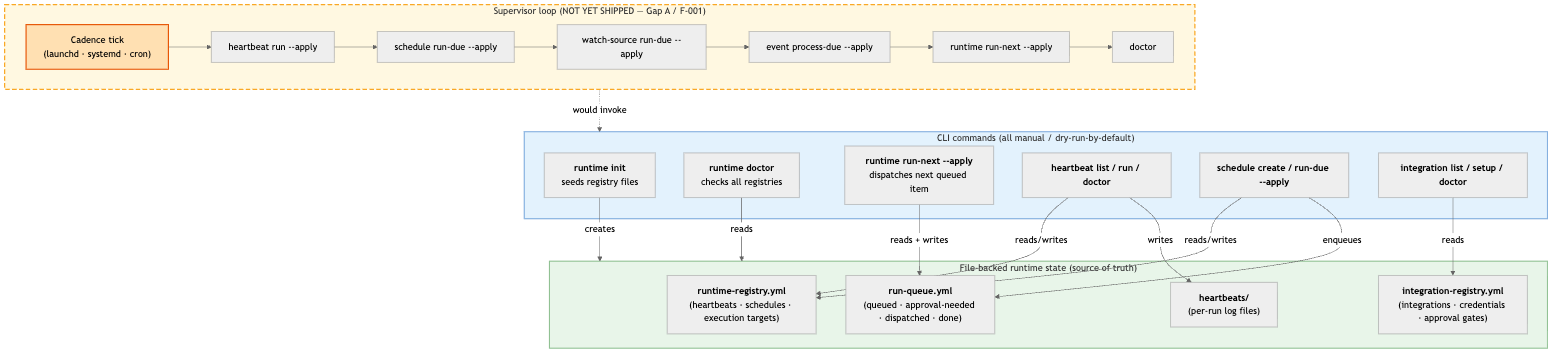
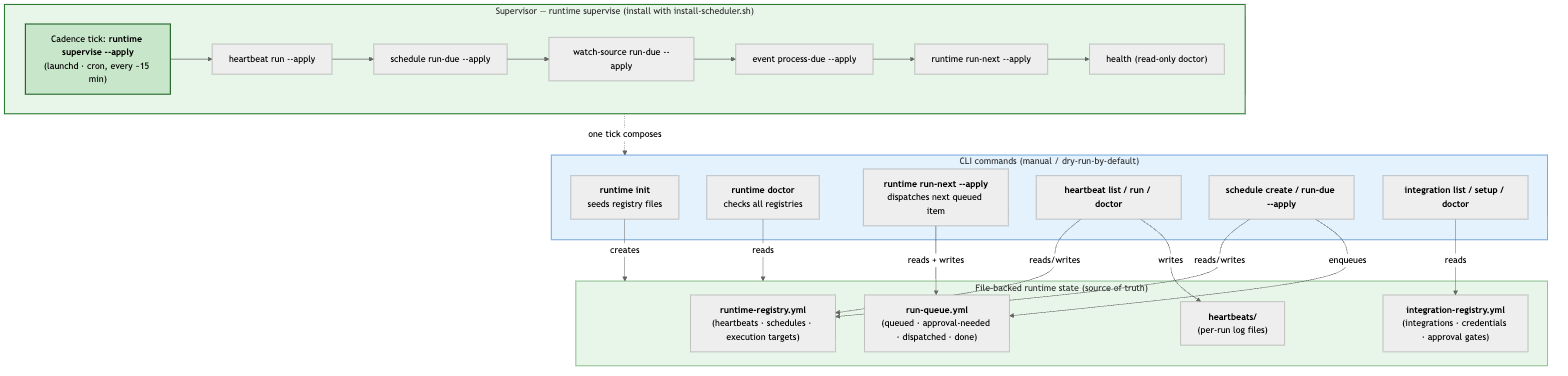
docs: reflect the shipped supervisor and refresh validated baselines
Reframe 09-runtime-and-always-on (supervisor now exists, with setup steps), re-render the runtime diagram (supervisor shown shipped), mark backlog F-001/F-002 done, downgrade gap-register A to resolved, add 'runtime supervise' to the command reference, and refresh baselines to 47/48 commands OK + 65/65 tests across the atlas and handbook.

Changed region(s): [[0.0, 0.0615, 1.0, 0.9218], [0.0, 0.0, 0.8125, 0.0615], [0.3438, 0.9525, 0.375, 0.9832]]

diff --git a/docs/09-runtime-and-always-on.md b/docs/09-runtime-and-always-on.md
@@ -1,14 +1,14 @@
 # 09 · Runtime & Always-On
 
-> **Purpose:** understand what the Agentic OS runtime surface *is* (file-backed
-> registries, heartbeats, schedules, integrations, a run queue) and what it
-> **is not yet** (an autonomous daemon that ticks without you). This page is the
-> honest account of both halves.
+> **Purpose:** understand the Agentic OS runtime surface (file-backed registries,
+> heartbeats, schedules, integrations, a run queue) and how to make it **tick on a
+> cadence**. There is no bespoke daemon — an external scheduler calls one
+> auditable tick command (`runtime supervise`), installed by a small script.
 >
-> **You'll use:** `agentic-os runtime {init,doctor,run-next}`,
+> **You'll use:** `agentic-os runtime {init,doctor,run-next,supervise}`,
 > `agentic-os heartbeat {list,run,doctor}`,
 > `agentic-os schedule {create,run-due}`,
-> `agentic-os integration {list,setup,doctor}`.
+> `agentic-os integration {list,setup,doctor}`, `installers/install-scheduler.sh`.
 >
 > **Prereqs:** an installed OS root
 > ([01 · Install & Quickstart](01-install-and-quickstart.md)); runtime registries
@@ -33,25 +33,28 @@ directly — there is no in-memory state, no database, no network call at the
 registry layer. This is the MWP philosophy applied to operations: the filesystem
 *is* the runtime state.
 
-### Critical honesty: "always-on" is currently on-demand
+### How it ticks: on-demand by default, schedulable via the supervisor
 
-**The OS has a full runtime surface but no runtime process.** Every command below
-is invoked manually, or previewed via dry-run. Nothing ticks by itself.
+By itself, every command below is **invoked manually or previewed via dry-run** —
+the registry layer has no daemon. What turns the surface into an always-on engine
+is the **supervisor** plus an **external scheduler**:
 
-- `heartbeat run` only fires when you type it.
-- `schedule run-due` only enqueues due items when you type it.
-- `watch-source poll` only polls when you type it.
-- `event process-due` only processes chained events when you type it.
-- `runtime run-next` only dispatches the next queue item when you type it (with
-  `--apply`).
+- **`agentic-os runtime supervise`** runs *one tick* across the whole surface, in
+  order — heartbeats → schedules → watch-sources → events → run-queue — then a
+  read-only health check. Dry-run by default; `--apply` commits. Steps are
+  **isolated**: one failing subsystem never aborts the tick.
+- **`installers/install-scheduler.sh`** installs a **launchd agent** (macOS) or a
+  **crontab line** (other platforms) that calls `runtime supervise --apply` on a
+  cadence (default 15 min). It is dry-run by default and **not auto-installed** —
+  enabling a background agent is an explicit, per-host choice.
 
-This is Gap A in the [gap register](../.agentic-atlas/gap-register.md), rated S1
-(highest priority). The recommended fix — a thin supervisor (launchd plist on
-macOS, systemd unit on Linux, or a cron entry) that runs the loop above on a
-cadence — is backlogged as **F-001**. Until F-001 ships, treat the runtime surface
-as a set of well-designed levers, not an engine that runs itself.
+So "always-on" is opt-in per machine: install the scheduler and the OS ticks
+itself; skip it and the same commands stay on-demand levers. This closes the old
+Gap A (F-001 + F-002) in the
+[gap register](../.agentic-atlas/gap-register.md) — see
+[the supervisor section](#the-supervisor-what-makes-it-always-on) below for setup.
 
-![Runtime registries (runtime-registry.yml, integration-registry.yml, run-queue.yml, heartbeat logs) fed by CLI commands; a dashed supervisor loop showing what F-001 would add (heartbeat run, schedule run-due, watch-source poll, event process-due, runtime run-next, doctor) is marked NOT YET SHIPPED](diagrams/runtime-registries.png)
+![Runtime registries (runtime-registry.yml, integration-registry.yml, run-queue.yml, heartbeat logs) fed by manual CLI commands; the shipped supervisor loop — runtime supervise, installed via install-scheduler.sh — composes one tick of heartbeat run, schedule run-due, watch-source run-due, event process-due, runtime run-next, and a read-only health check on a cadence](diagrams/runtime-registries.png)
 
 ---
 
@@ -409,32 +412,48 @@ findings:
 
 ---
 
-## The F-001 supervisor loop (what would make this "always-on")
+## The supervisor: what makes it always-on
 
-When F-001 ships, a thin supervisor — a launchd plist on macOS, a systemd unit
-on Linux, or a crontab entry — would run the following sequence on each cadence
-tick (suggested: every 5–15 minutes):
+A single command runs the whole loop, and a small installer schedules it.
+
+### One tick — `runtime supervise`
 
 ```bash
-# F-001 supervisor sequence (not yet implemented)
-agentic-os heartbeat run <each-enabled-heartbeat-id> --root ~/agentic_os --apply
-agentic-os schedule run-due --root ~/agentic_os --apply
-agentic-os watch-source run-due --root ~/agentic_os --apply
-agentic-os event process-due --root ~/agentic_os --apply
-agentic-os runtime run-next --root ~/agentic_os --apply
-agentic-os doctor --root ~/agentic_os
+# Preview a tick (dry-run is the default — touches nothing):
+agentic-os runtime supervise --root ~/agentic_os
+
+# Run a real tick (commit effects):
+agentic-os runtime supervise --root ~/agentic_os --apply
 ```
 
-The gap register also calls for:
+`runtime supervise` composes the surface in order — heartbeats → schedules →
+watch-sources → events → run-queue — then a read-only health check, printing an
+auditable per-step report (`ok`, `health_ok`, and a summary per step). Each step
+is **isolated**: if one subsystem raises, the tick records it, continues the rest,
+and the command exits 1 so a scheduler can alert.
 
-- `installers/install-scheduler.sh` — a one-command installer that writes the
-  platform-appropriate supervisor unit
-- `agentic-os runtime supervise --dry-run` — a planner that shows what the
-  supervisor would do without touching anything
+### Schedule it — `install-scheduler.sh`
 
-Until then, operators can run these commands manually or wire them into an
-external scheduler themselves. The registries, queue, and log contracts are
-all stable; the supervisor is drop-in.
+```bash
+# Preview what would be installed (dry-run; changes nothing):
+bash installers/install-scheduler.sh --root ~/agentic_os --interval-minutes 15
+
+# Install the background driver:
+bash installers/install-scheduler.sh --root ~/agentic_os --interval-minutes 15 --apply
+
+# Remove it later:
+bash installers/install-scheduler.sh --uninstall --apply
+```
+
+On macOS this writes a **launchd agent** to `~/Library/LaunchAgents/` (rendered from
+`templates/runtime/supervisor.launchd.plist.template`); on other platforms it adds a
+**crontab line**. Either way it calls `runtime supervise --apply` on the cadence,
+logging to `shared_factory/06-runs-and-logs/supervisor.{out,err}.log`. It is
+**dry-run by default and never auto-installed** — turning on a background agent is a
+deliberate, per-host choice.
+
+> **Manual fallback:** run `runtime supervise --apply` by hand, or wire it into any
+> scheduler you prefer. The registry, queue, and log contracts are stable.
 
 ---
 

diff --git a/.agentic-atlas/gap-register.md b/.agentic-atlas/gap-register.md
@@ -4,34 +4,37 @@
 > *does* today, established by running the CLI (see
 > [`validation/RESULTS.md`](validation/RESULTS.md)) and reading the source. Each
 > gap has evidence, impact, and a recommendation. Items here feed
-> [`backlog.md`](backlog.md). Last validated: 2026-05-28 (60/60 tests pass; 45/45
-> commands functional).
+> [`backlog.md`](backlog.md). Last validated: 2026-05-29 (65/65 tests pass; 47/48
+> commands OK, 2 intentional guardrail exits).
 
 Severity: **S1** blocks the "running OS" promise · **S2** materially limits value ·
 **S3** polish / friction.
 
 ---
 
-## A. Always-on runtime — the headline gap (S1)
+## A. Always-on runtime — RESOLVED (was the S1 headline gap)
 
-**The OS has a full runtime *surface* but no runtime *process*.** `runtime`,
-`heartbeat`, `schedule`, `watch-source`, `event process-due`, and `runtime
-run-next` all exist and work, but every one is **manual / dry-run-by-default**.
-Nothing executes them on a cadence.
+**Shipped (2026-05-29).** The OS now has both a single-tick executor and an
+installable driver, turning the runtime surface from on-demand into genuinely
+schedulable:
 
-- **Evidence:** `grep -rniE 'cron|launchd|systemd|daemon|apscheduler'` over `src/`
-  and `installers/` returns nothing. `spec/product-spec.md` non-goals: *"does not
-  execute automations, schedule jobs, or manage long-running state."* The runtime
-  commands default to `--dry-run`; effects need explicit `--apply`.
-- **Impact:** heartbeats don't beat, schedules don't fire, sources aren't polled,
-  queued runs aren't dispatched, chain reactions don't process — unless a human
-  types the command. "Always-on" is currently "on-demand."
-- **Recommendation:** ship a thin **supervisor** (launchd plist on macOS / systemd
-  unit / cron) that periodically runs, in order: `heartbeat run … --apply`,
-  `schedule run-due --apply`, `watch-source run-due --apply`, `event process-due --apply`,
-  `runtime run-next --apply`, then `doctor`. Provide an installer
-  (`installers/install-scheduler.sh`) and a `agentic-os runtime supervise` dry-run
-  planner. This is the single highest-leverage item to make the OS "live."
+- **`agentic-os runtime supervise [--dry-run|--apply]`** (`src/genomes_agentic_os/supervisor.py`)
+  runs one tick across the whole runtime surface, in order — heartbeats → schedules
+  → watch-sources → events → run-queue — then a read-only health check. Dry-run by
+  default; steps are **isolated** (one failing subsystem never aborts the tick);
+  exits 1 if any mutating step raises. Covered by `tests/test_runtime_supervise.py`.
+- **`installers/install-scheduler.sh`** renders a **launchd agent** (macOS) or a
+  **crontab line** (other platforms) that calls `runtime supervise --apply` on a
+  cadence (default 15 min), logging to `shared_factory/06-runs-and-logs/`. Dry-run
+  by default; `--uninstall` supported. Plist template:
+  `templates/runtime/supervisor.launchd.plist.template`.
+
+- **Residual (S3):** the scheduler is **not auto-installed** — an operator runs
+  `install-scheduler.sh --apply` per host (deliberate: installing a background
+  agent is an explicit, per-machine choice). And the *value* of each tick still
+  depends on the subsystems (e.g., live source polling needs the adapters in
+  [Gap F](#f-integrations--connected-sources-are-contracts-not-connections-s2)).
+  Backlog: F-001 ✅, F-002 ✅.
 
 ---
 
@@ -146,7 +149,7 @@ Nothing executes them on a cadence.
 
 | Service | Purpose | Today | Target |
 | --- | --- | --- | --- |
-| **Scheduler/supervisor** | tick heartbeats, schedules, polling, queue dispatch, chain processing | ❌ none | launchd/systemd/cron (Gap A) |
+| **Scheduler/supervisor** | tick heartbeats, schedules, polling, queue dispatch, chain processing | ✅ `runtime supervise` + `install-scheduler.sh` | enable per host: `install-scheduler.sh --apply` (Gap A) |
 | **Notion sync job** | project files → cockpit | ⚠ plan-only | `notion sync --apply` on cadence (Gap B) |
 | **Health monitor** | aggregate doctors, alert on regression | ⚠ manual one-shots | `doctor --all` each tick (Gap C) |
 | **Backup job** | snapshot installed OS | ⚠ `backup run` manual + needs grant | scheduled `backup run --apply` |

diff --git a/.agentic-atlas/backlog.md b/.agentic-atlas/backlog.md
@@ -15,8 +15,8 @@
 
 | ID | Type | Item | Why | Gap | Status |
 | --- | --- | --- | --- | --- | --- |
-| F-001 | 🟩 | **Scheduler/supervisor** (launchd/systemd/cron) that ticks heartbeats, `schedule run-due --apply`, `watch-source run-due --apply`, `event process-due --apply`, `runtime run-next --apply`, `doctor` | Without it, "always-on" is on-demand; nothing fires by itself | [A](gap-register.md#a-always-on-runtime--the-headline-gap-s1) | todo |
-| F-002 | 🟩 | **`agentic-os runtime supervise`** — a dry-run planner + single-tick executor the supervisor calls | Gives one auditable entrypoint for the loop; testable without a daemon | [A](gap-register.md) | todo |
+| F-001 | 🟩 | **Scheduler/supervisor** (launchd/cron) that ticks the runtime surface | Without it, "always-on" is on-demand; nothing fires by itself | [A](gap-register.md#a-always-on-runtime--the-headline-gap-s1) | **done** — `installers/install-scheduler.sh` renders a launchd agent (macOS) / crontab line that runs `runtime supervise --apply` on a cadence; dry-run by default, `--uninstall` supported. *Not auto-installed — operator runs it per host.* |
+| F-002 | 🟩 | **`agentic-os runtime supervise`** — a dry-run planner + single-tick executor the supervisor calls | Gives one auditable entrypoint for the loop; testable without a daemon | **done** — `src/genomes_agentic_os/supervisor.py` composes heartbeats → schedules → watch-sources → events → run-queue + read-only health; dry-run default; isolated steps; 3 tests in `tests/test_runtime_supervise.py`. |
 | F-003 | 🟩 | **`agentic-os doctor --all`** — aggregate every subsystem doctor into one health report; emit event on regression | Turns point-in-time checks into monitorable health | [C](gap-register.md#c-no-monitored-health--only-point-in-time-doctors-s2) | todo |
 
 ## P1 — Close the value gaps
@@ -43,8 +43,8 @@
 ## Notes for whoever picks these up
 
 - **Validate first, always.** Re-run `bash .agentic-atlas/tools/validate-cli.sh`
-  and `.venv/bin/python -m pytest -q` before and after. Baseline today: 45/45
-  commands functional, 60/60 tests pass.
+  and `.venv/bin/python -m pytest -q` before and after. Baseline: 47/48
+  commands OK (2 intentional guardrail exits), 65/65 tests pass.
 - **Match the architecture.** New commands follow the §9 recipe in
   [`architecture/system-architecture.md`](architecture/system-architecture.md):
   parser + thin handler in `cli.py`, logic in a `*_ops.py`, template in

diff --git a/.agentic-atlas/architecture/command-reference.md b/.agentic-atlas/architecture/command-reference.md
@@ -577,6 +577,27 @@ Status: **OK** (rc 0, dry-run mode)
 
 ---
 
+### `runtime supervise`
+
+Run one supervisor tick across the whole runtime surface — heartbeats → schedules → watch-sources → events → run-queue — then a read-only health check. Dry-run by default. This is the single command an external scheduler calls (`installers/install-scheduler.sh`).
+
+| Arg / Flag | Required | Description |
+|---|---|---|
+| `--root` | No | Installed OS root path |
+| `--dry-run` | No (default) | Preview the tick; touches nothing |
+| `--apply` | No | Commit each step's effects |
+
+Steps are isolated — one failing subsystem does not abort the tick. Exits 1 if any mutating step raises. Reads/Writes: composes the runtime/event/source subsystems; health is read-only. Impl: `src/genomes_agentic_os/supervisor.py`.
+
+```bash
+agentic-os runtime supervise --root /tmp/aos-ref            # dry-run
+agentic-os runtime supervise --root /tmp/aos-ref --apply    # real tick
+```
+
+Status: **OK** (rc 0; rc 1 only if a step raises)
+
+---
+
 ### `heartbeat list`
 
 List all configured heartbeats in the runtime registry.

diff --git a/docs/README.md b/docs/README.md
@@ -9,8 +9,8 @@ mechanical work, and one agent reads the right files at the right moment.
 
 > **The promise:** stop rebuilding operating context from scratch in every chat.
 
-**Validated baseline (2026-05-29):** 44/45 CLI commands functional · 2 deliberate
-guardrail exits · 0 crashes · 60/60 tests pass. Re-validate with
+**Validated baseline (2026-05-29):** 47/48 CLI commands functional · 2 deliberate
+guardrail exits · 0 crashes · 65/65 tests pass. Re-validate with
 `bash .agentic-atlas/tools/validate-cli.sh` and `.venv/bin/python -m pytest -q`.
 
 ---

diff --git a/.agentic-atlas/START-HERE.md b/.agentic-atlas/START-HERE.md
@@ -6,8 +6,8 @@
 > build next. Read this page first; follow the links; trust them over re-derivation
 > (but re-validate if a fact looks stale — see the timestamp below).
 
-**Last full validation: 2026-05-28** · CLI: **45/45 commands functional** ·
-Tests: **60/60 pass** · Diagram pipeline: **verified (Mermaid→PNG)**.
+**Last full validation: 2026-05-29** · CLI: **47/48 commands OK** (2 intentional guardrail exits) ·
+Tests: **65/65 pass** · Diagram pipeline: **verified (Mermaid→PNG)**.
 
 ---
 
